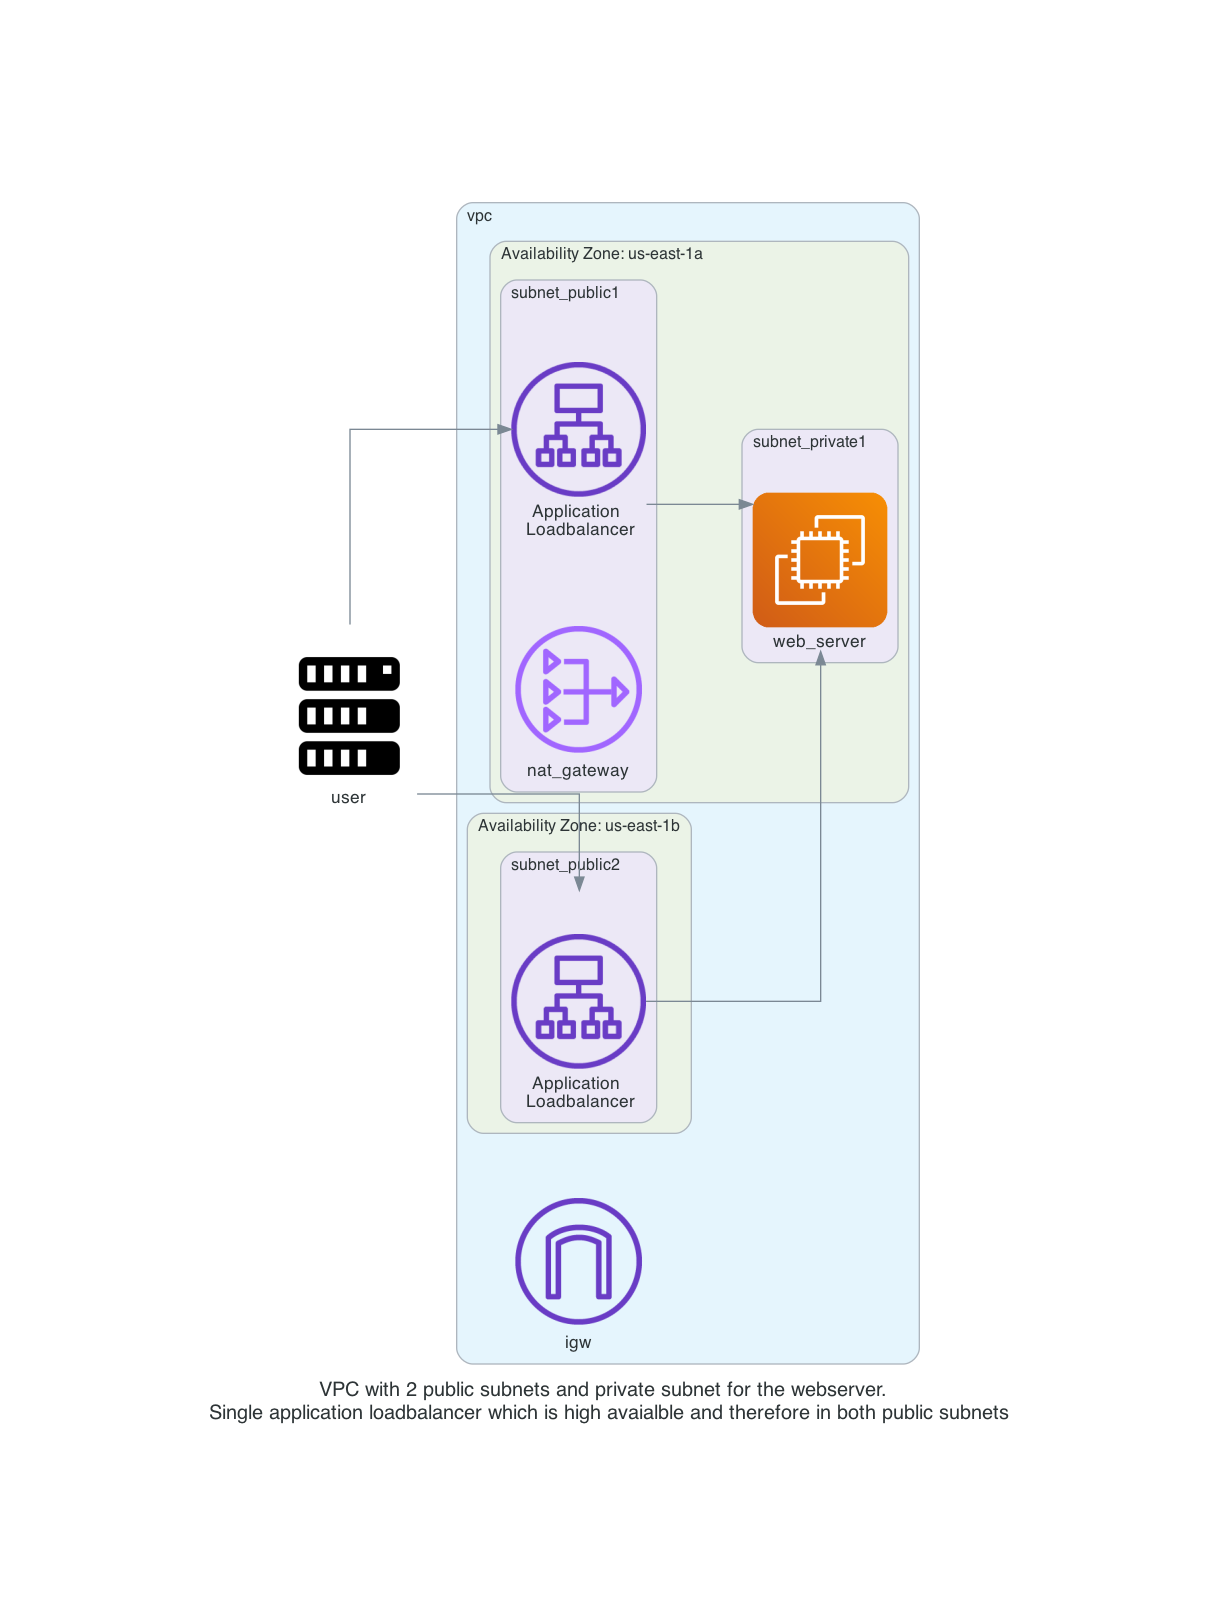
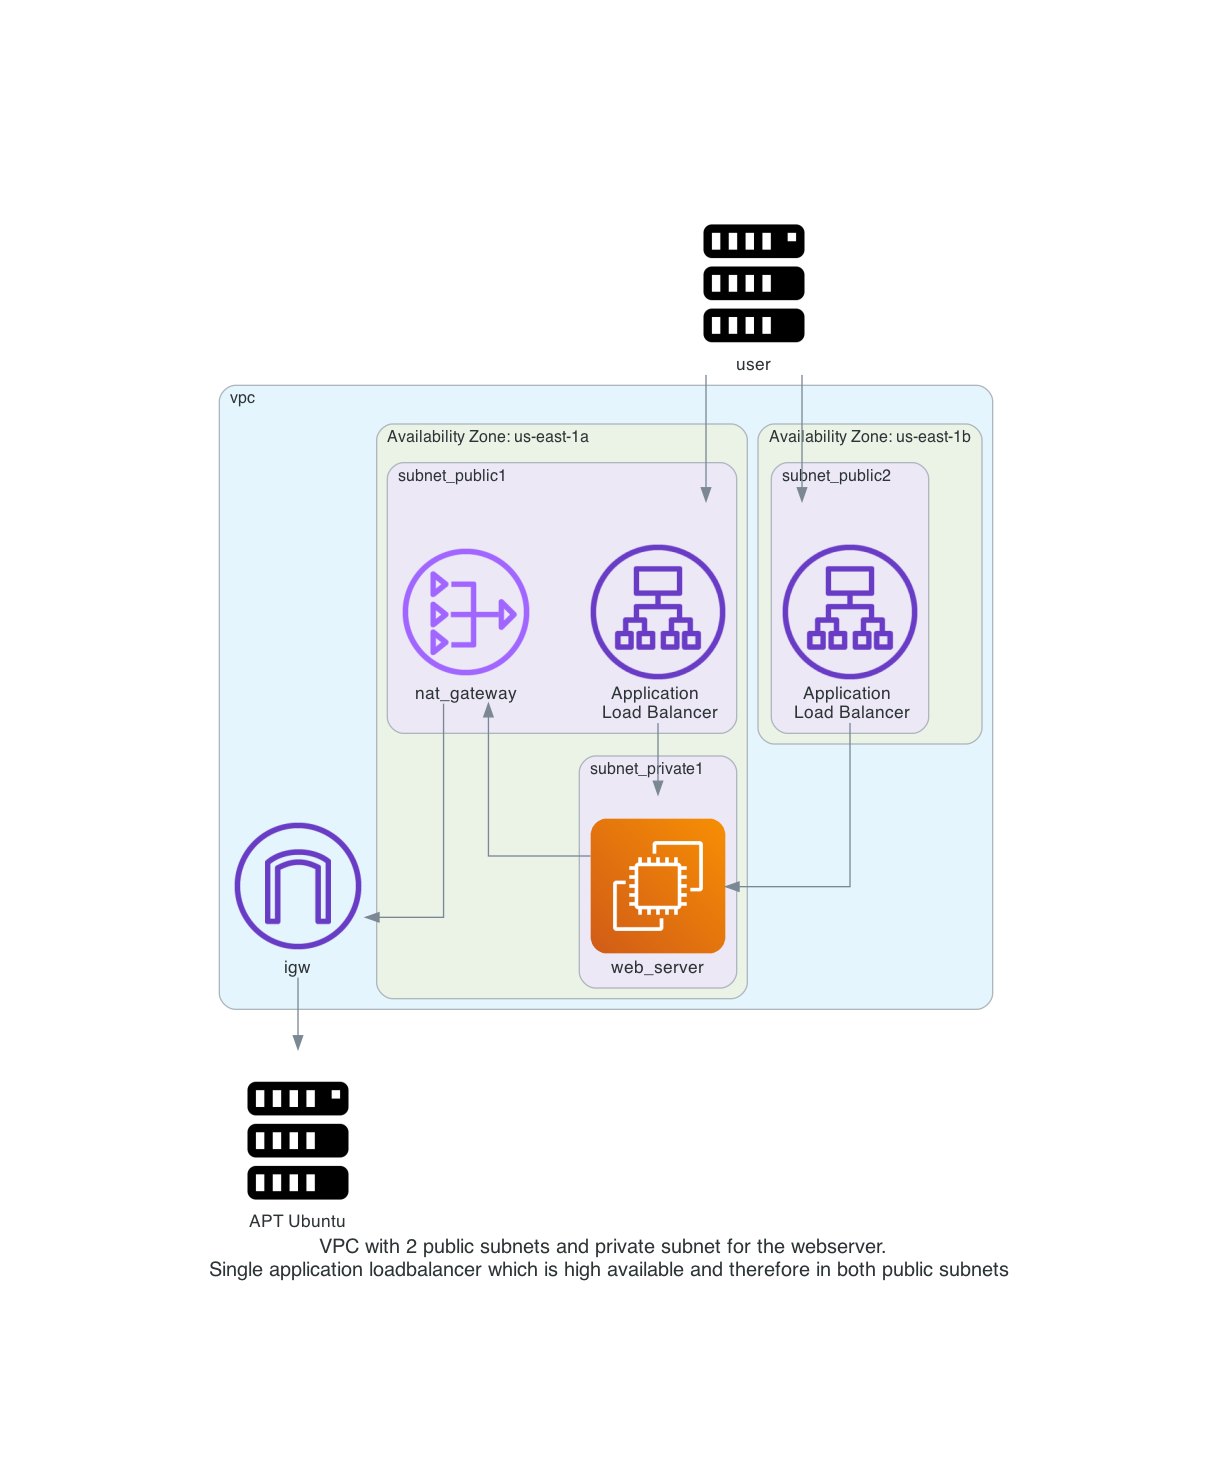
diagram correctnes

Changed region(s): [[0.1526, 0.1243, 0.8243, 0.8703]]

diff --git a/manual_steps/diagram_vpc.py b/manual_steps/diagram_vpc.py
@@ -4,10 +4,10 @@ from diagrams.aws.network import VPC, PrivateSubnet, PublicSubnet, InternetGatew
 from diagrams.onprem.compute import Server
 
 # Variables
-title = "VPC with 2 public subnets and private subnet for the webserver. \n Single application loadbalancer which is high avaialble and therefore in both public subnets"
+title = "VPC with 2 public subnets and private subnet for the webserver. \n Single application loadbalancer which is high available and therefore in both public subnets"
 outformat = "png"
 filename = "vpc-diagram"
-direction = "LR"
+direction = "TB"
 
 
 with Diagram(
@@ -23,20 +23,24 @@ with Diagram(
     with Cluster("vpc"):
         igw_gateway = InternetGateway("igw")
 
+        with Cluster("Availability Zone: us-east-1b"):
+            # Subcluster
+            with Cluster("subnet_public2"):
+                loadbalancer2 = ElbApplicationLoadBalancer("Application \n Load Balancer")
+
         with Cluster("Availability Zone: us-east-1a"):
             # Subcluster 
             with Cluster("subnet_public1"):
-                loadbalancer1 = ElbApplicationLoadBalancer("Application \n Loadbalancer")
+                loadbalancer1 = ElbApplicationLoadBalancer("Application \n Load Balancer")
                 nat_gateway = NATGateway("nat_gateway")
             # Subcluster
             with Cluster("subnet_private1"):
                 ec2_server_web_server = EC2("web_server")
-        with Cluster("Availability Zone: us-east-1b"):
-            # Subcluster
-            with Cluster("subnet_public2"):
-                loadbalancer2 = ElbApplicationLoadBalancer("Application \n Loadbalancer")
  
     # Diagram
-    user >> [loadbalancer1, loadbalancer2] >> ec2_server_web_server 
+    user >> [loadbalancer1, 
+             loadbalancer2] >> ec2_server_web_server 
+
+    ec2_server_web_server >> nat_gateway >> igw_gateway >> Server("APT Ubuntu")
 
 diag

diff --git a/certificates/README.md b/certificates/README.md
@@ -4,3 +4,10 @@ This directory should contain your keys and certificates used to connect to your
 `fullchain.pem`: the certificate file used in most server software.
 `chain.pem`    : Certificate chain
 `cert.pem`     : Certificate body
+
+## TLS certificate
+You need to have valid TLS certificates that can be used with the DNS name you will be using to contact the webserver.  
+  
+If you don't have valid SSL certificates you can create one for free using Let's Encrypt. This repository includes an instruction on how to do this. [See documentation](manual_steps/nginx_create_certificate/README.md) This documentation will use Vagrant to create a server that can be used to create the SSL certificates. If you have SSL certificates you can skip this manual.    
+
+Your TLS certificates should be placed in the ```certificates``` folder
